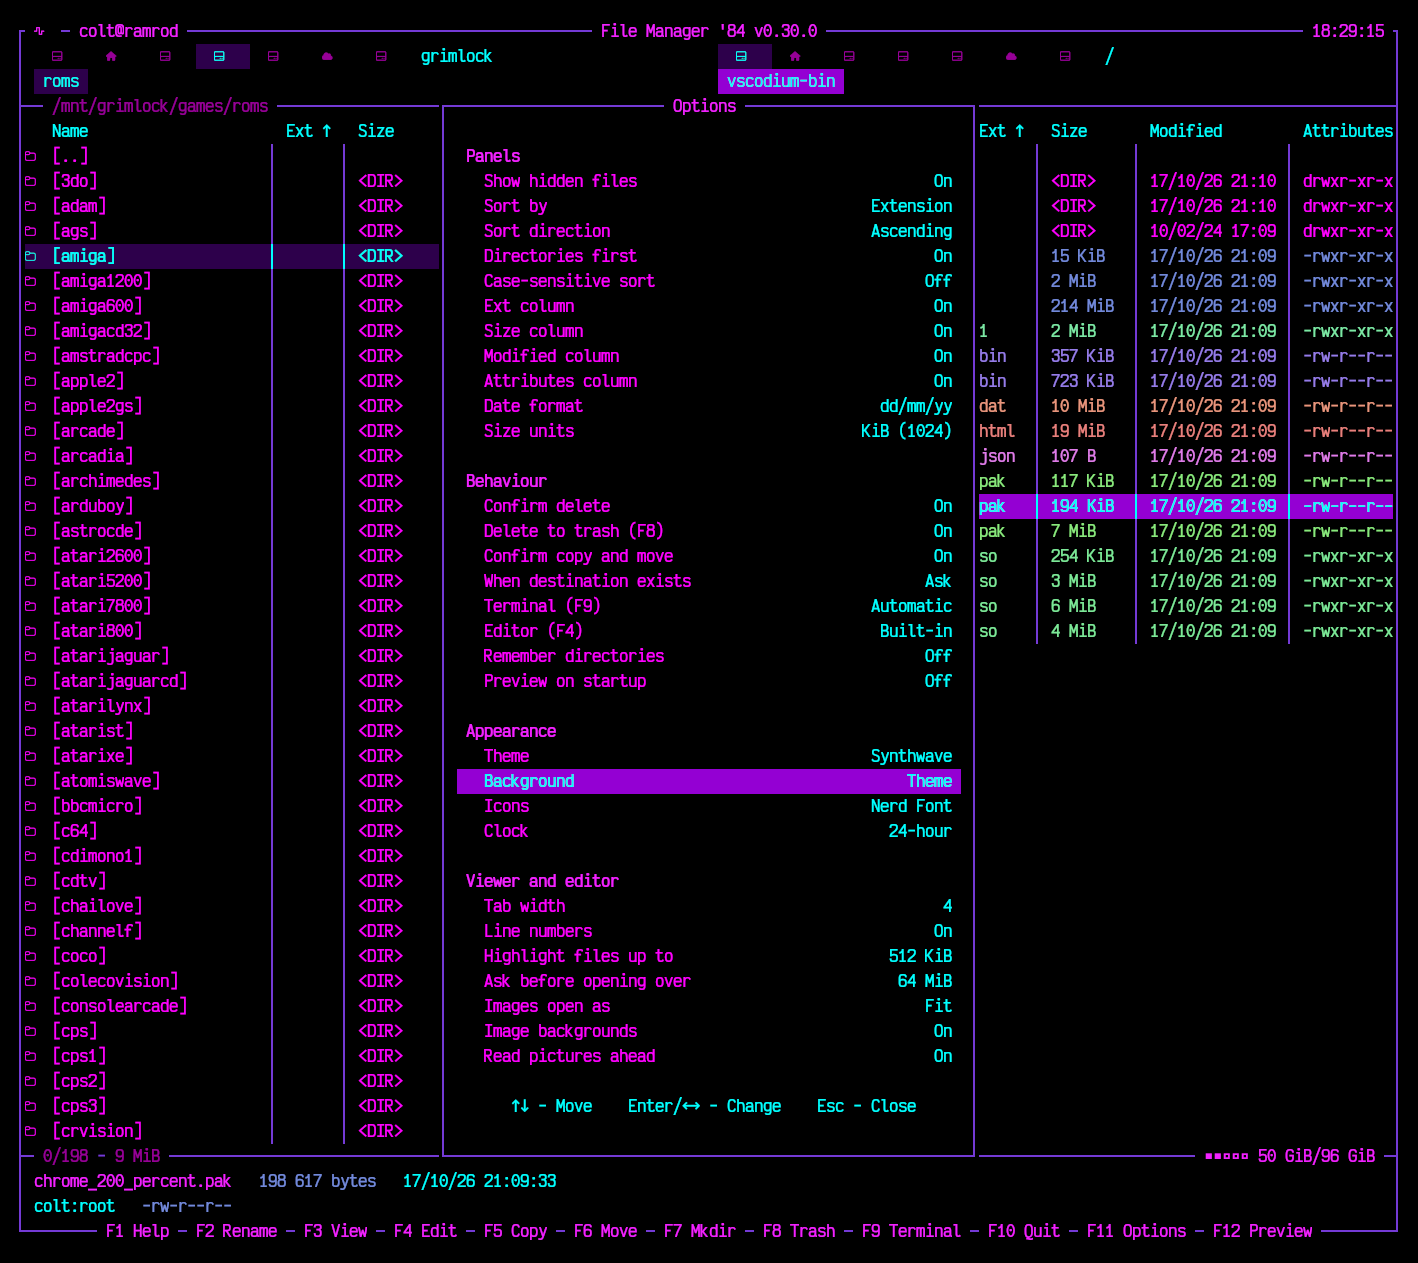
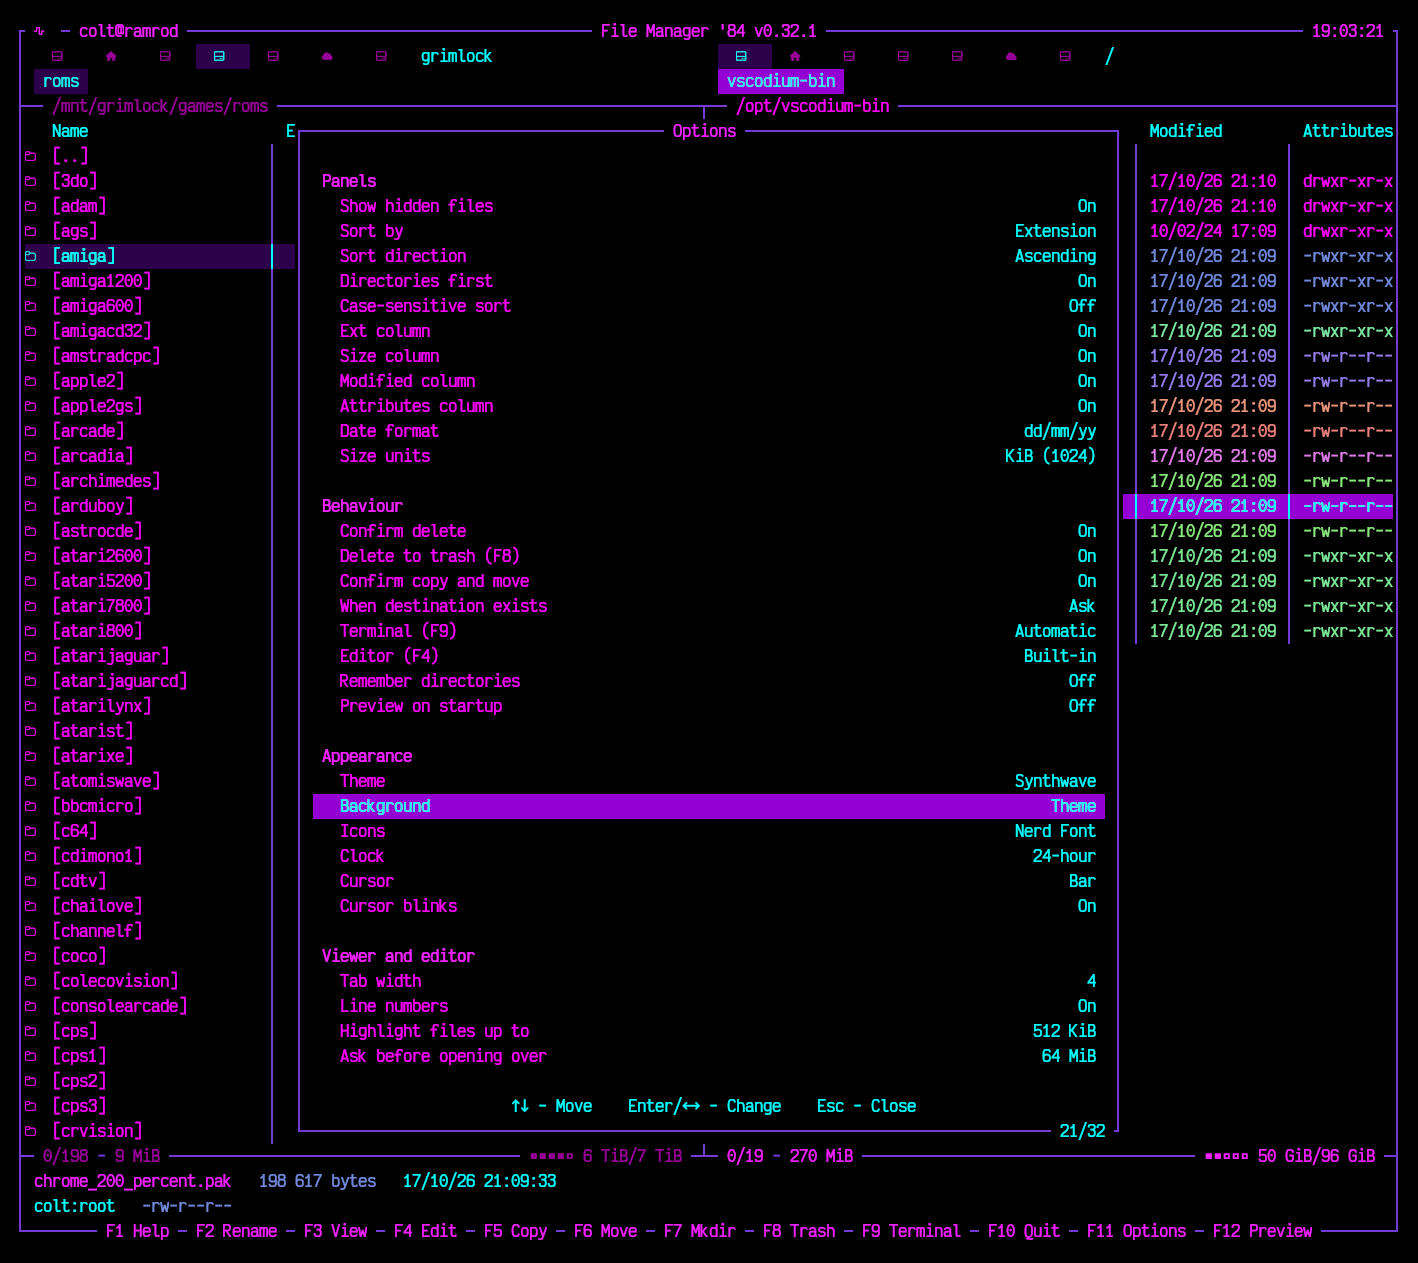
Update version to 0.32.1

diff --git a/CHANGELOG.md b/CHANGELOG.md
@@ -6,6 +6,19 @@ All notable changes to FM84 will be documented in this file.
 
 ---
 
+## [0.32.1] - 2026-10-24
+
+### 🐛 Fixed
+- ⌨ **Alt+\* in kitty** - with kitty's keyboard protocol on, a chord with Shift in it came as the key unshifted: Alt+\* arrived as Alt+8, inverted nothing, and with eight tabs open went to the eighth. The shifted character is asked for as well, so it inverts the selection again
+- 📜 **Jumping to a difference near the end of a diff** scrolled past the last row, leaving the bottom of the view empty, and the next ↑ jumped back. The last row now stays at the bottom
+- 📜 **F1 after the window grew** - scrolled to its end and then given more room, it took several presses of ↑ before it moved. It keeps to what the room allows
+- ▏ **The cursor behind a question** - over the editor, Save changes?, the file changed on disk and the large-file question left the terminal's cursor blinking in the text beside them. It shows in the editor only with nothing over it
+
+### 🛠 Changed
+- 🗂 **The source split into modules** - the six largest files, the biggest of them nearly 6,000 lines, are folders of files a concern each: `app`, `ui`, `input`, `fs_ops`, `viewer` and `options`, with their tests beside them by topic. Nothing changes in how fm84 behaves
+
+---
+
 ## [0.32.0] - 2026-10-24
 
 ### ✨ Added

diff --git a/README.md b/README.md
@@ -15,7 +15,7 @@
 
 💜 *A synthwave-infused dual-pane TUI file manager, forged in Rust* 💜
 
-**Version 0.32.0** ▀▄▀▄ *Neon Dreams Edition*
+**Version 0.32.1** ▀▄▀▄ *Neon Dreams Edition*
 
 </div>
 
@@ -354,7 +354,7 @@ fm84                 # panels and tabs where you left them (or the current direc
 fm84 ~/Music         # left panel in ~/Music
 fm84 ~/Music /mnt    # left in ~/Music, right in /mnt
 fm84 --help          # usage, and where the config lives
-fm84 --version       # fm84 0.32.0
+fm84 --version       # fm84 0.32.1
 ```
 
 📖 `man ./doc/fm84.1` reads the manual page from a checkout; the release archives carry `fm84.1` beside the binary, for `/usr/local/share/man/man1`.
@@ -441,5 +441,5 @@ Released under the [MIT License](https://github.com/coltwillcox/fm84/blob/master
 <p align="center">
   <strong>💜 FM84 💜</strong><br>
   <em>Where every file operation feels like a synth drop</em><br>
-  <code>▀▄▀▄▀▄ v0.32.0 ▄▀▄▀▄▀</code>
+  <code>▀▄▀▄▀▄ v0.32.1 ▄▀▄▀▄▀</code>
 </p>
